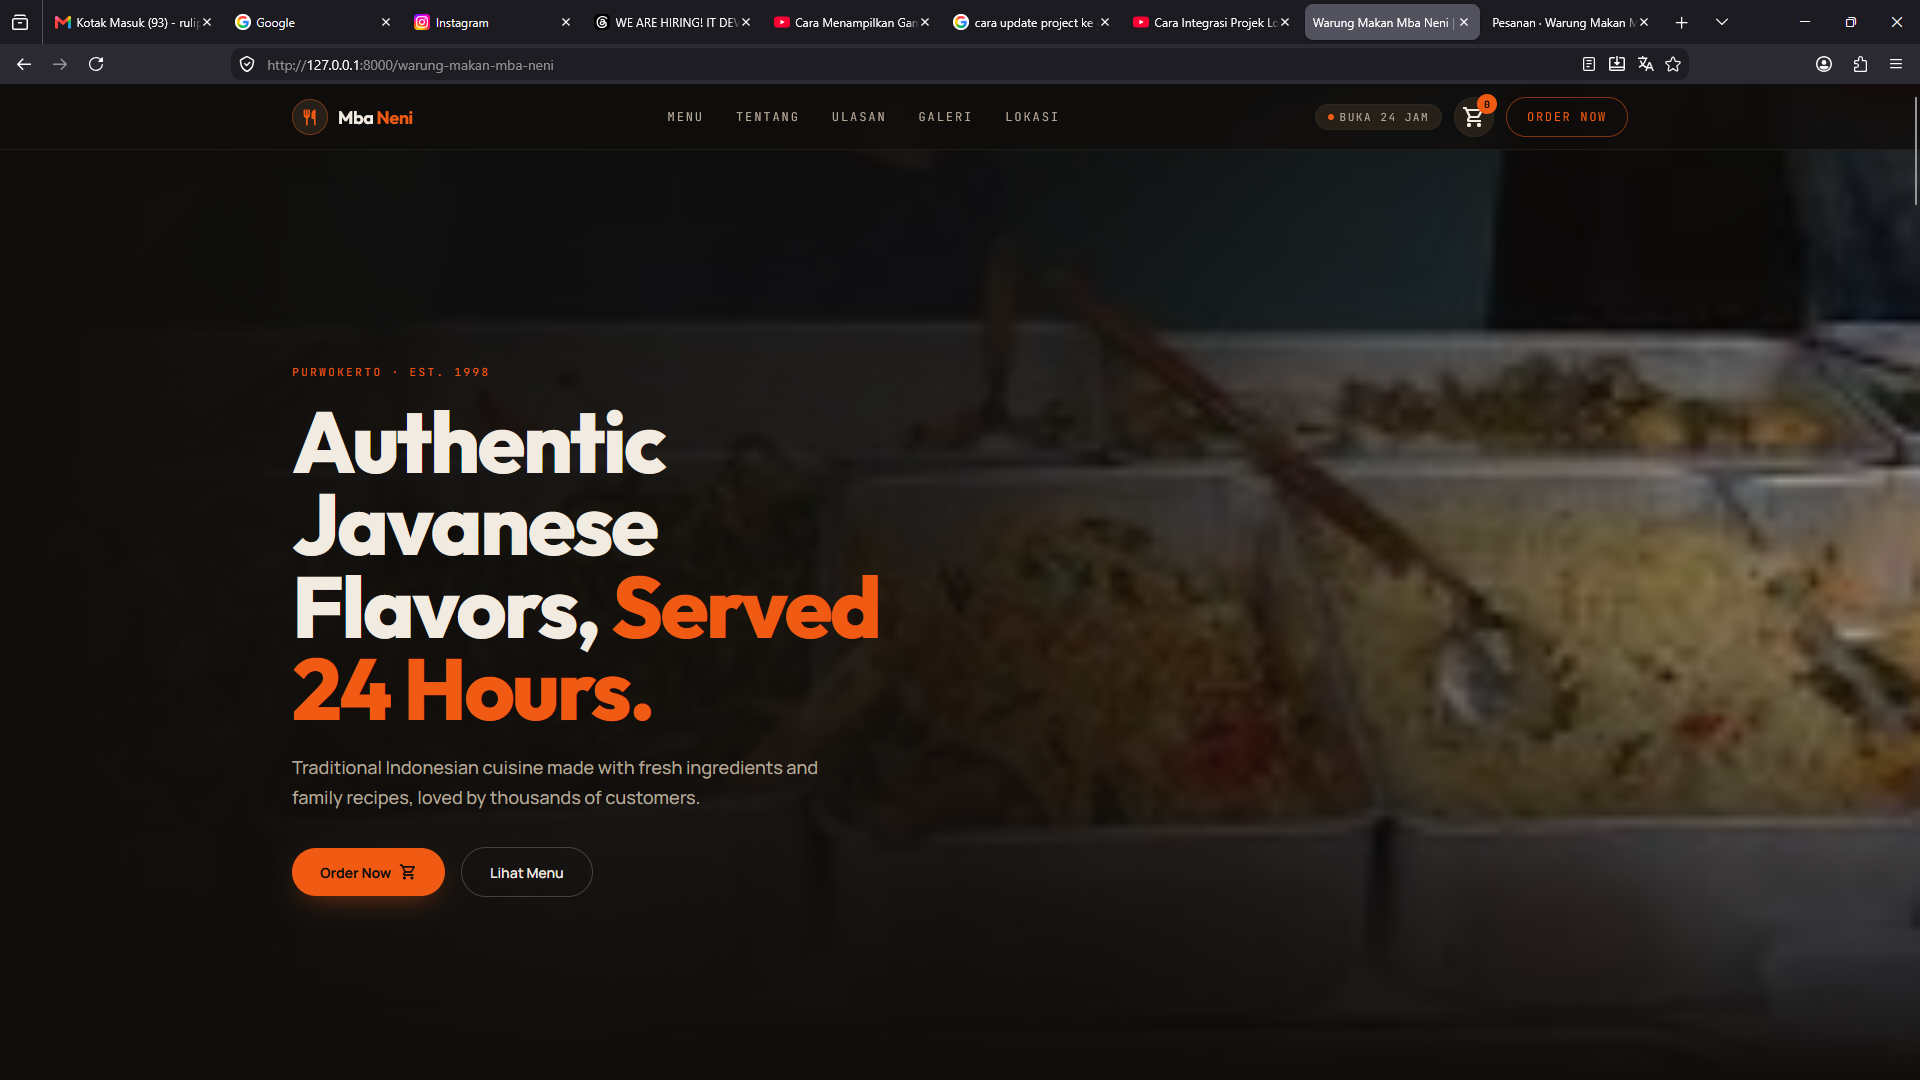
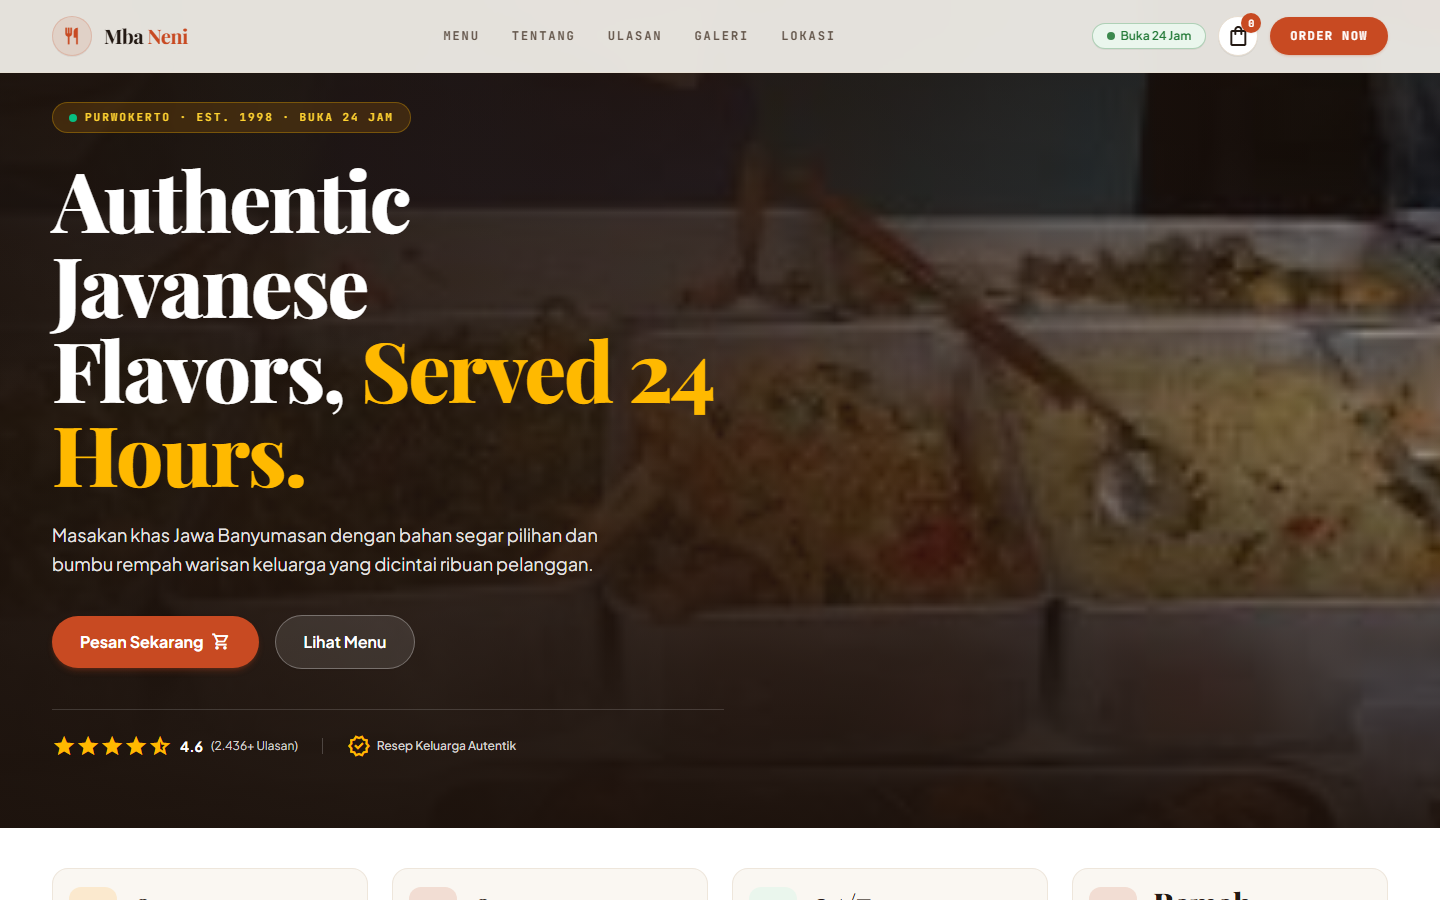
docs & assets: update project screenshots and comprehensive README documentation

diff --git a/database/seeders/DemoDataSeeder.php b/database/seeders/DemoDataSeeder.php
@@ -1,0 +1,61 @@
+<?php
+
+namespace Database\Seeders;
+
+use App\Models\Booking;
+use App\Models\Order;
+use Illuminate\Database\Seeder;
+
+class DemoDataSeeder extends Seeder
+{
+    public function run(): void
+    {
+        Order::query()->delete();
+        Booking::query()->delete();
+
+        $o1 = Order::create([
+            'reference_code' => 'WBN-20261006-01',
+            'customer_name' => 'Dimas Pratama',
+            'customer_phone' => '081234567890',
+            'service_type' => 'dine-in',
+            'status' => 'completed',
+            'total' => 42000,
+        ]);
+        $o1->items()->create(['name' => 'Soto Sutri', 'quantity' => 2, 'price' => 15000, 'product_id' => '1']);
+        $o1->items()->create(['name' => 'Es Teh Manis', 'quantity' => 3, 'price' => 4000, 'product_id' => '6']);
+
+        $o2 = Order::create([
+            'reference_code' => 'WBN-20261006-02',
+            'customer_name' => 'Siti Nurhaliza',
+            'customer_phone' => '085712349999',
+            'service_type' => 'delivery',
+            'status' => 'pending',
+            'total' => 68000,
+        ]);
+        $o2->items()->create(['name' => 'Ayam Bakar', 'quantity' => 2, 'price' => 20000, 'product_id' => '4']);
+        $o2->items()->create(['name' => 'Es Teler', 'quantity' => 2, 'price' => 12000, 'product_id' => '10']);
+        $o2->items()->create(['name' => 'Es Jeruk', 'quantity' => 1, 'price' => 4000, 'product_id' => '8']);
+
+        Booking::create([
+            'name' => 'Budi Santoso',
+            'phone' => '081987654321',
+            'date' => now()->addDay()->toDateString(),
+            'time' => '19:00',
+            'guests' => 4,
+            'table_type' => 'indoor',
+            'notes' => 'Ulang tahun keluarga, mohon meja dekat jendela',
+            'status' => 'confirmed',
+        ]);
+
+        Booking::create([
+            'name' => 'Anisa Rahmawati',
+            'phone' => '082133445566',
+            'date' => now()->addDays(2)->toDateString(),
+            'time' => '13:00',
+            'guests' => 2,
+            'table_type' => 'outdoor',
+            'notes' => 'Acara santai makan siang',
+            'status' => 'pending',
+        ]);
+    }
+}

diff --git a/README.md b/README.md
@@ -1,58 +1,134 @@
-<p align="center"><a href="https://laravel.com" target="_blank"><img src="https://raw.githubusercontent.com/laravel/art/master/logo-lockup/5%20SVG/2%20CMYK/1%20Full%20Color/laravel-logolockup-cmyk-red.svg" width="400" alt="Laravel Logo"></a></p>
+# 🍲 Warung Makan Mba Neni — Web Application
 
-<p align="center">
-<a href="https://github.com/laravel/framework/actions"><img src="https://github.com/laravel/framework/workflows/tests/badge.svg" alt="Build Status"></a>
-<a href="https://packagist.org/packages/laravel/framework"><img src="https://img.shields.io/packagist/dt/laravel/framework" alt="Total Downloads"></a>
-<a href="https://packagist.org/packages/laravel/framework"><img src="https://img.shields.io/packagist/v/laravel/framework" alt="Latest Stable Version"></a>
-<a href="https://packagist.org/packages/laravel/framework"><img src="https://img.shields.io/packagist/l/laravel/framework" alt="License"></a>
-</p>
+> Sistem Web Pemesanan Makanan Online, Reservasi Meja, dan Manajemen Warung Makan Berbasis **Laravel 13**, **Tailwind CSS**, dan **SQLite**.
 
-## About Laravel
+---
 
-Laravel is a web application framework with expressive, elegant syntax. We believe development must be an enjoyable and creative experience to be truly fulfilling. Laravel takes the pain out of development by easing common tasks used in many web projects, such as:
+## 📸 Screenshots Showcase
 
-- [Simple, fast routing engine](https://laravel.com/docs/routing).
-- [Powerful dependency injection container](https://laravel.com/docs/container).
-- Multiple back-ends for [session](https://laravel.com/docs/session) and [cache](https://laravel.com/docs/cache) storage.
-- Expressive, intuitive [database ORM](https://laravel.com/docs/eloquent).
-- Database agnostic [schema migrations](https://laravel.com/docs/migrations).
-- [Robust background job processing](https://laravel.com/docs/queues).
-- [Real-time event broadcasting](https://laravel.com/docs/broadcasting).
+### 1. Halaman Publik (Customer Facing)
 
-Laravel is accessible, powerful, and provides tools required for large, robust applications.
+| Landing Page (Beranda) | Menu & Pemesanan Online |
+|:---:|:---:|
+| ![Landing Page](screenshots/01-landing-page.png) | ![Pesan Online](screenshots/02-menu-order.png) |
 
-## Learning Laravel
+| Reservasi Meja (Booking) | Login Admin Portal |
+|:---:|:---:|
+| ![Reservasi Meja](screenshots/03-table-booking.png) | ![Login Admin](screenshots/04-admin-login.png) |
 
-Laravel has the most extensive and thorough [documentation](https://laravel.com/docs) and video tutorial library of all modern web application frameworks, making it a breeze to get started with the framework.
+---
 
-In addition, [Laracasts](https://laracasts.com) contains thousands of video tutorials on a range of topics including Laravel, modern PHP, unit testing, and JavaScript. Boost your skills by digging into our comprehensive video library.
+### 2. Panel Admin (Management Dashboard)
 
-You can also watch bite-sized lessons with real-world projects on [Laravel Learn](https://laravel.com/learn), where you will be guided through building a Laravel application from scratch while learning PHP fundamentals.
+| Manajemen Pesanan (Orders) | Kelola Menu & Produk |
+|:---:|:---:|
+| ![Pesanan Masuk](screenshots/05-admin-orders.png) | ![Kelola Menu](screenshots/06-admin-menu.png) |
 
-## Agentic Development
+| Pengaturan Ketersediaan (Stok Menu) | Manajemen Booking Meja |
+|:---:|:---:|
+| ![Ketersediaan Menu](screenshots/07-admin-availability.png) | ![Daftar Booking](screenshots/08-admin-bookings.png) |
 
-Laravel's predictable structure and conventions make it ideal for AI coding agents like Claude Code, Cursor, and GitHub Copilot. Install [Laravel Boost](https://laravel.com/docs/ai) to supercharge your AI workflow:
+| Kelola Kategori Menu |
+|:---:|
+| ![Kategori Menu](screenshots/09-admin-categories.png) |
 
+---
+
+## ✨ Fitur Utama
+
+- 🏮 **Desain Estetika Kuliner Nusantara (Warm Culinary Aesthetic):**
+  - Tema hangat berbasis nuansa krem (*cream/parchment*), oranye bata (*terracotta*), dan aksen hijau rempah.
+  - Tipografi elegan kombinasi *Playfair Display*, *Plus Jakarta Sans*, dan *JetBrains Mono*.
+- 🛒 **Pemesanan Makanan Online:**
+  - Keranjang belanja interaktif realtime.
+  - Pilihan layanan: Dine-in (Makan di Tempat), Takeaway (Bungkus), dan Delivery (Antar).
+  - Integrasi nomor WhatsApp dan kode referensi unik pesanan.
+- 📅 **Reservasi Meja (Table Booking):**
+  - Formulir pemesanan meja dengan pilihan area (Indoor/Outdoor), tanggal, jam, dan jumlah tamu.
+  - Konfirmasi pemesanan cepat via WhatsApp warung.
+- 🔐 **Admin Dashboard Lengkap:**
+  - **Pesanan:** Monitoring pesanan masuk, rincian struk belanja, dan barcode transaksi.
+  - **Menu:** Tambah, edit, dan hapus menu makanan/minuman dengan foto hidangan.
+  - **Ketersediaan:** Toggle cepat status menu (Tersedia / Habis) secara instan.
+  - **Kategori:** Manajemen kategori makanan & minuman.
+  - **Booking:** Daftar jadwal reservasi meja dan catatan khusus pelanggan.
+
+---
+
+## 🛠 Tech Stack
+
+- **Backend:** Laravel 13, PHP 8.3+
+- **Database:** SQLite (default) / MySQL ready
+- **Frontend:** Blade Templates, Tailwind CSS, Alpine.js, Vite
+- **Icons & Fonts:** Google Material Symbols, Playfair Display, Plus Jakarta Sans, JetBrains Mono
+
+---
+
+## 🚀 Panduan Instalasi & Menjalankan Proyek
+
+### 1. Clone Repositori
 ```bash
-composer require laravel/boost --dev
-
-php artisan boost:install
+git clone https://github.com/rulipanji3/webrestorant.git
+cd webrestorant
 ```
 
-Boost provides your agent 15+ tools and skills that help agents build Laravel applications while following best practices.
+### 2. Install Dependensi PHP & JavaScript
+```bash
+composer install
+npm install
+```
 
-## Contributing
+### 3. Konfigurasi Environment (.env)
+```bash
+cp .env.example .env
+php artisan key:generate
+```
 
-Thank you for considering contributing to the Laravel framework! The contribution guide can be found in the [Laravel documentation](https://laravel.com/docs/contributions).
+### 4. Migrasi & Seed Database
+```bash
+php artisan migrate --seed
+php artisan db:seed --class=DemoDataSeeder
+```
 
-## Code of Conduct
+### 5. Kompilasi Aset Frontend
+```bash
+npm run build
+```
 
-In order to ensure that the Laravel community is welcoming to all, please review and abide by the [Code of Conduct](https://laravel.com/docs/contributions#code-of-conduct).
+### 6. Jalankan Server Lokal
+```bash
+php artisan serve
+```
+Buka browser dan akses [http://127.0.0.1:8000](http://127.0.0.1:8000).
 
-## Security Vulnerabilities
+---
 
-If you discover a security vulnerability within Laravel, please send an e-mail to Taylor Otwell via [taylor@laravel.com](mailto:taylor@laravel.com). All security vulnerabilities will be promptly addressed.
+## 🔑 Kredensial Default Admin
 
-## License
+- **URL:** [http://127.0.0.1:8000/admin/login](http://127.0.0.1:8000/admin/login)
+- **Username:** `admin`
+- **Password:** `secret`
 
-The Laravel framework is open-sourced software licensed under the [MIT license](https://opensource.org/licenses/MIT).
+---
+
+## 🧪 Menjalankan Pengujian (Testing)
+
+```bash
+php artisan test
+```
+
+Semua unit & feature test siap dijalankan dengan SQLite in-memory database:
+```
+PASS  Tests\Unit\ExampleTest
+PASS  Tests\Feature\AdminPagesTest
+PASS  Tests\Feature\CheckoutTest
+PASS  Tests\Feature\ExampleTest
+PASS  Tests\Feature\WarungMakanPageTest
+Tests: 7 passed (25 assertions)
+```
+
+---
+
+## 📄 Lisensi
+
+Proyek ini dilisensikan di bawah [MIT License](LICENSE).
